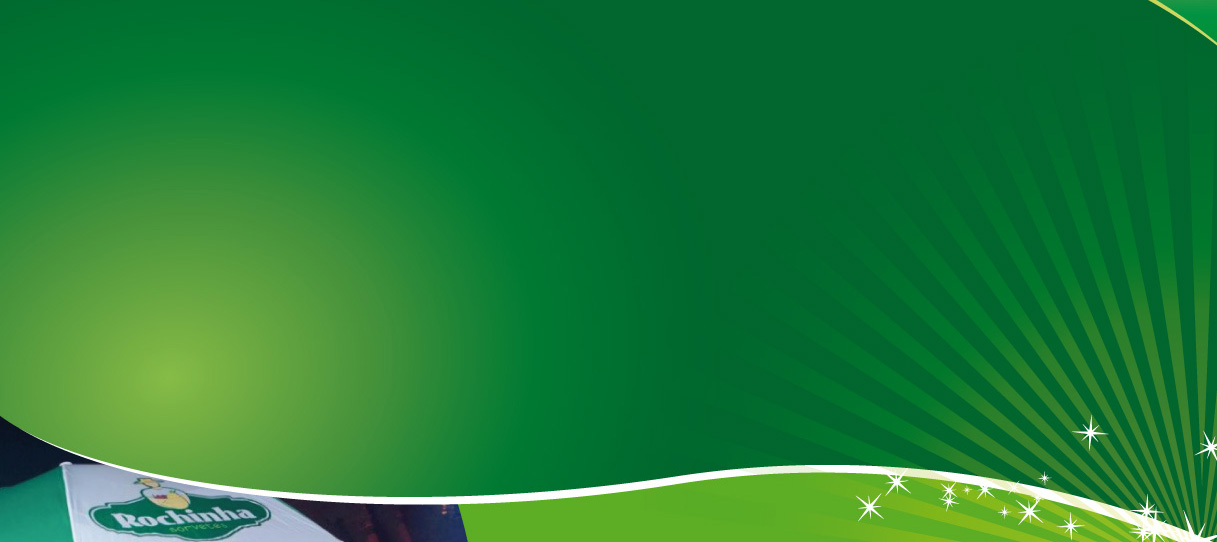
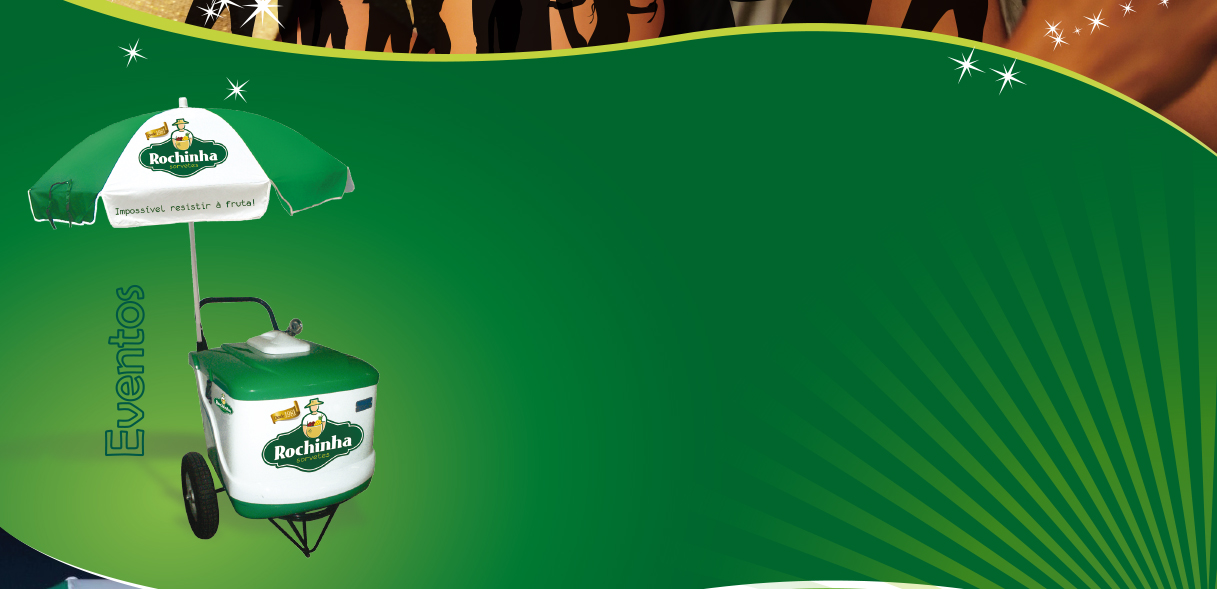
novos bgs e nvoos efeitos

diff --git a/index.html b/index.html
@@ -17,20 +17,19 @@
 		<div class="container">
 			<div class="row">
 				<div class="col-md-12">
-					<div id="bg1">
+					<div id="topo">
 						<img src="images/logo-rochinha-titulo.png" class="img-responsive" id="logo-topo">
 						<div class="botoes-topo">
-							<a href="#bg2"><img src="images/botao-topo-001-eventos.png"></a>
-							<a href="#bg3"><img src="images/botao-topo-002-pacotes.png"></a>
-							<a href="#bg4"><img src="images/botao-topo-003-personalizados.png"></a>
-							<a href="#bg5"><img src="images/botao-topo-004-sabores.png"></a>
-							<a href="#bg6"><img src="images/botao-topo-005-duvidas.png"></a>
-							<a href="#bg7"><img src="images/botao-topo-006-pedidos.png"></a>
+							<a href="#eventos"><img src="images/botao-topo-001-eventos.png"></a>
+							<a href="#pacotes"><img src="images/botao-topo-002-pacotes.png"></a>
+							<a href="#personalizados"><img src="images/botao-topo-003-personalizados.png"></a>
+							<a href="#sabores"><img src="images/botao-topo-004-sabores.png"></a>
+							<a href="#duvidas"><img src="images/botao-topo-005-duvidas.png"></a>
+							<a href="#pedidos"><img src="images/botao-topo-006-pedidos.png"></a>
 						</div>
 					</div>
-					<div id="bg2"> 
-						<img src="images/carrinho-eventos.png" style="border:1px solid #f0f; display: inline-block; margin-top: -10px">
-						<div id="bg2-text">
+					<div id="eventos"> 
+						<div id="eventos-text">
 							<p class="font-berlinsans white">Você sabia que sua festa pode ter um<br> carrinho recheado com picolés Rochinha?</p>
 							<p class="yellow font-berlinsans">Disponibilizamos carrinhos e freezers</p>
 							<p class="yellow font-berlinsans">para vários tipos de eventos</p>
@@ -48,7 +47,7 @@
 							</ul>
 						</div>						
 					</div>
-					<div id="bg3">
+					<div id="pacotes">
 						<p class="green">Nosso pacote mínimo de serviço consiste em:</p>
 						<ul class="list-events white">
 							<li><i><img src="images/icon1-pacotes.png" /></i>Pedido de 06 caixas com 28 picolés tradicionais equivalentes a 168 picolés.</li>
@@ -57,10 +56,10 @@
 							<li><i><img src="images/icon4-pacotes.png" /></i>Entrega e retirada do equipamento no local do evento em horário comercial.</li>
 						</ul>
 					</div>
-					<div id="bg4"> </div>
-					<div id="bg5"> </div>
-					<div id="bg6"> </div>
-					<div id="bg7"> </div>					
+					<div id="personalizados"> </div>
+					<div id="sabores"> </div>
+					<div id="duvidas"> </div>
+					<div id="pedidos"> </div>					
 				</div>
 			</div> 		
 		</div>		

diff --git a/css/main.css b/css/main.css
@@ -4,11 +4,14 @@ body {
 	font-family: 'BerlinSans';
 	font-size: 20px;
 }
-#bg1 {
-	background-image: url('../images/bg1.jpg');
-	background-repeat: no-repeat;
-	width: 1217px;
-	height: 946px;
+#logo-topo{
+	margin-top: 25px;
+	margin-left: 250px;
+	display: inline;
+}
+.botoes-topo{
+	margin-top: 362px;
+	margin-left: 206px;
 }
 .go-top {
 	background: #666;
@@ -25,55 +28,44 @@ body {
 	height: 70px;
 	z-index: 9999;
 }
-#logo-topo{
-	margin-top: 25px;
-	margin-left: 250px;
-	display: inline;
-}
-.botoes-topo{
-	margin-top: 362px;
-	margin-left: 206px;
-}
-.botoes-topo img{
-}
-#bg2 {
-	background-image: url('../images/bg2.jpg');
+#topo, #eventos, #pacotes, #personalizados, #sabores, #duvidas, #pedidos{
 	background-repeat: no-repeat;
 	width: 1217px;
-	height: 542px;
 }
-#bg2-text{
+#topo{
+	background-image: url('../images/bg1.jpg');
+	height: 840px;
+	margin-top: -3px;
+}
+#eventos {
+	background-image: url('../images/bg2.jpg');
+	height: 589px;
+}
+#pacotes {
+	background-image: url('../images/bg3.jpg');
+	height: 624px;
+}
+#personalizados {
+	background-image: url('../images/bg4.jpg');
+	height: 478px;
+}
+#sabores {
+	background-image: url('../images/bg5.jpg');
+	height: 493px;
+}
+#duvidas {
+	background-image: url('../images/bg6.jpg');
+	height: 487px;
+}
+#pedidos{
+	background-image: url('../images/bg7.jpg');
+	height: 465px;
+}
+.list-events li{list-style: none;}
+#eventos-text{
 	border:1px solid black; 
-	float: right; 
 	width: 700px;
 	font-size: 20px;
-}
-#bg3 {
-	background-image: url('../images/bg3.jpg');
-	background-repeat: no-repeat;
-	width: 1217px;
-	height: 644px;
-}
-#bg4 {
-	background-image: url('../images/bg4.jpg');
-	background-repeat: no-repeat;
-	width: 1217px;
-	height: 974px;
-}
-#bg5 {
-	background-image: url('../images/bg5.jpg');
-	background-repeat: no-repeat;
-	width: 1217px;
-	height: 838px;
-}
-.list-events li{
-	list-style: none;
-}
-.lista1{
-	float: left;
-}
-.lista2{
-	float: right;
 }
 .font-berlinsans{ font-family: 'BerlinSans'; }
 .font-script{ font-family: 'ScriptMT'; }

diff --git a/js/main.js b/js/main.js
@@ -15,7 +15,7 @@ $(document).ready(function() {
 	});
 	
 	//link para eventos
-	$('a[href^="#bg2"]').on('click',function (e) {
+	$('a[href^="#eventos"]').on('click',function (e) {
 	    e.preventDefault();
 
 	    var target = this.hash,
@@ -28,7 +28,7 @@ $(document).ready(function() {
 	    });
 	});
 	//link para pacotes
-	$('a[href^="#bg3"]').on('click',function (e) {
+	$('a[href^="#pacotes"]').on('click',function (e) {
 	    e.preventDefault();
 
 	    var target = this.hash,
@@ -41,7 +41,7 @@ $(document).ready(function() {
 	    });
 	});
 	//link para personalizados
-	$('a[href^="#bg4"]').on('click',function (e) {
+	$('a[href^="#personalizados"]').on('click',function (e) {
 	    e.preventDefault();
 
 	    var target = this.hash,
@@ -54,7 +54,7 @@ $(document).ready(function() {
 	    });
 	});
 	//link para sabores
-	$('a[href^="#bg5"]').on('click',function (e) {
+	$('a[href^="#sabores"]').on('click',function (e) {
 	    e.preventDefault();
 
 	    var target = this.hash,
@@ -67,7 +67,7 @@ $(document).ready(function() {
 	    });
 	});
 	//link para pedidos
-	$('a[href^="#bg6"]').on('click',function (e) {
+	$('a[href^="#duvidas"]').on('click',function (e) {
 	    e.preventDefault();
 
 	    var target = this.hash,
@@ -80,7 +80,7 @@ $(document).ready(function() {
 	    });
 	});
 	//link para pedidos
-	$('a[href^="#bg7"]').on('click',function (e) {
+	$('a[href^="#pedidos"]').on('click',function (e) {
 	    e.preventDefault();
 
 	    var target = this.hash,
@@ -91,7 +91,5 @@ $(document).ready(function() {
 	    }, 900, 'swing', function () {
 	        window.location.hash = target;
 	    });
-	});					
-	
-	
+	});
 });
